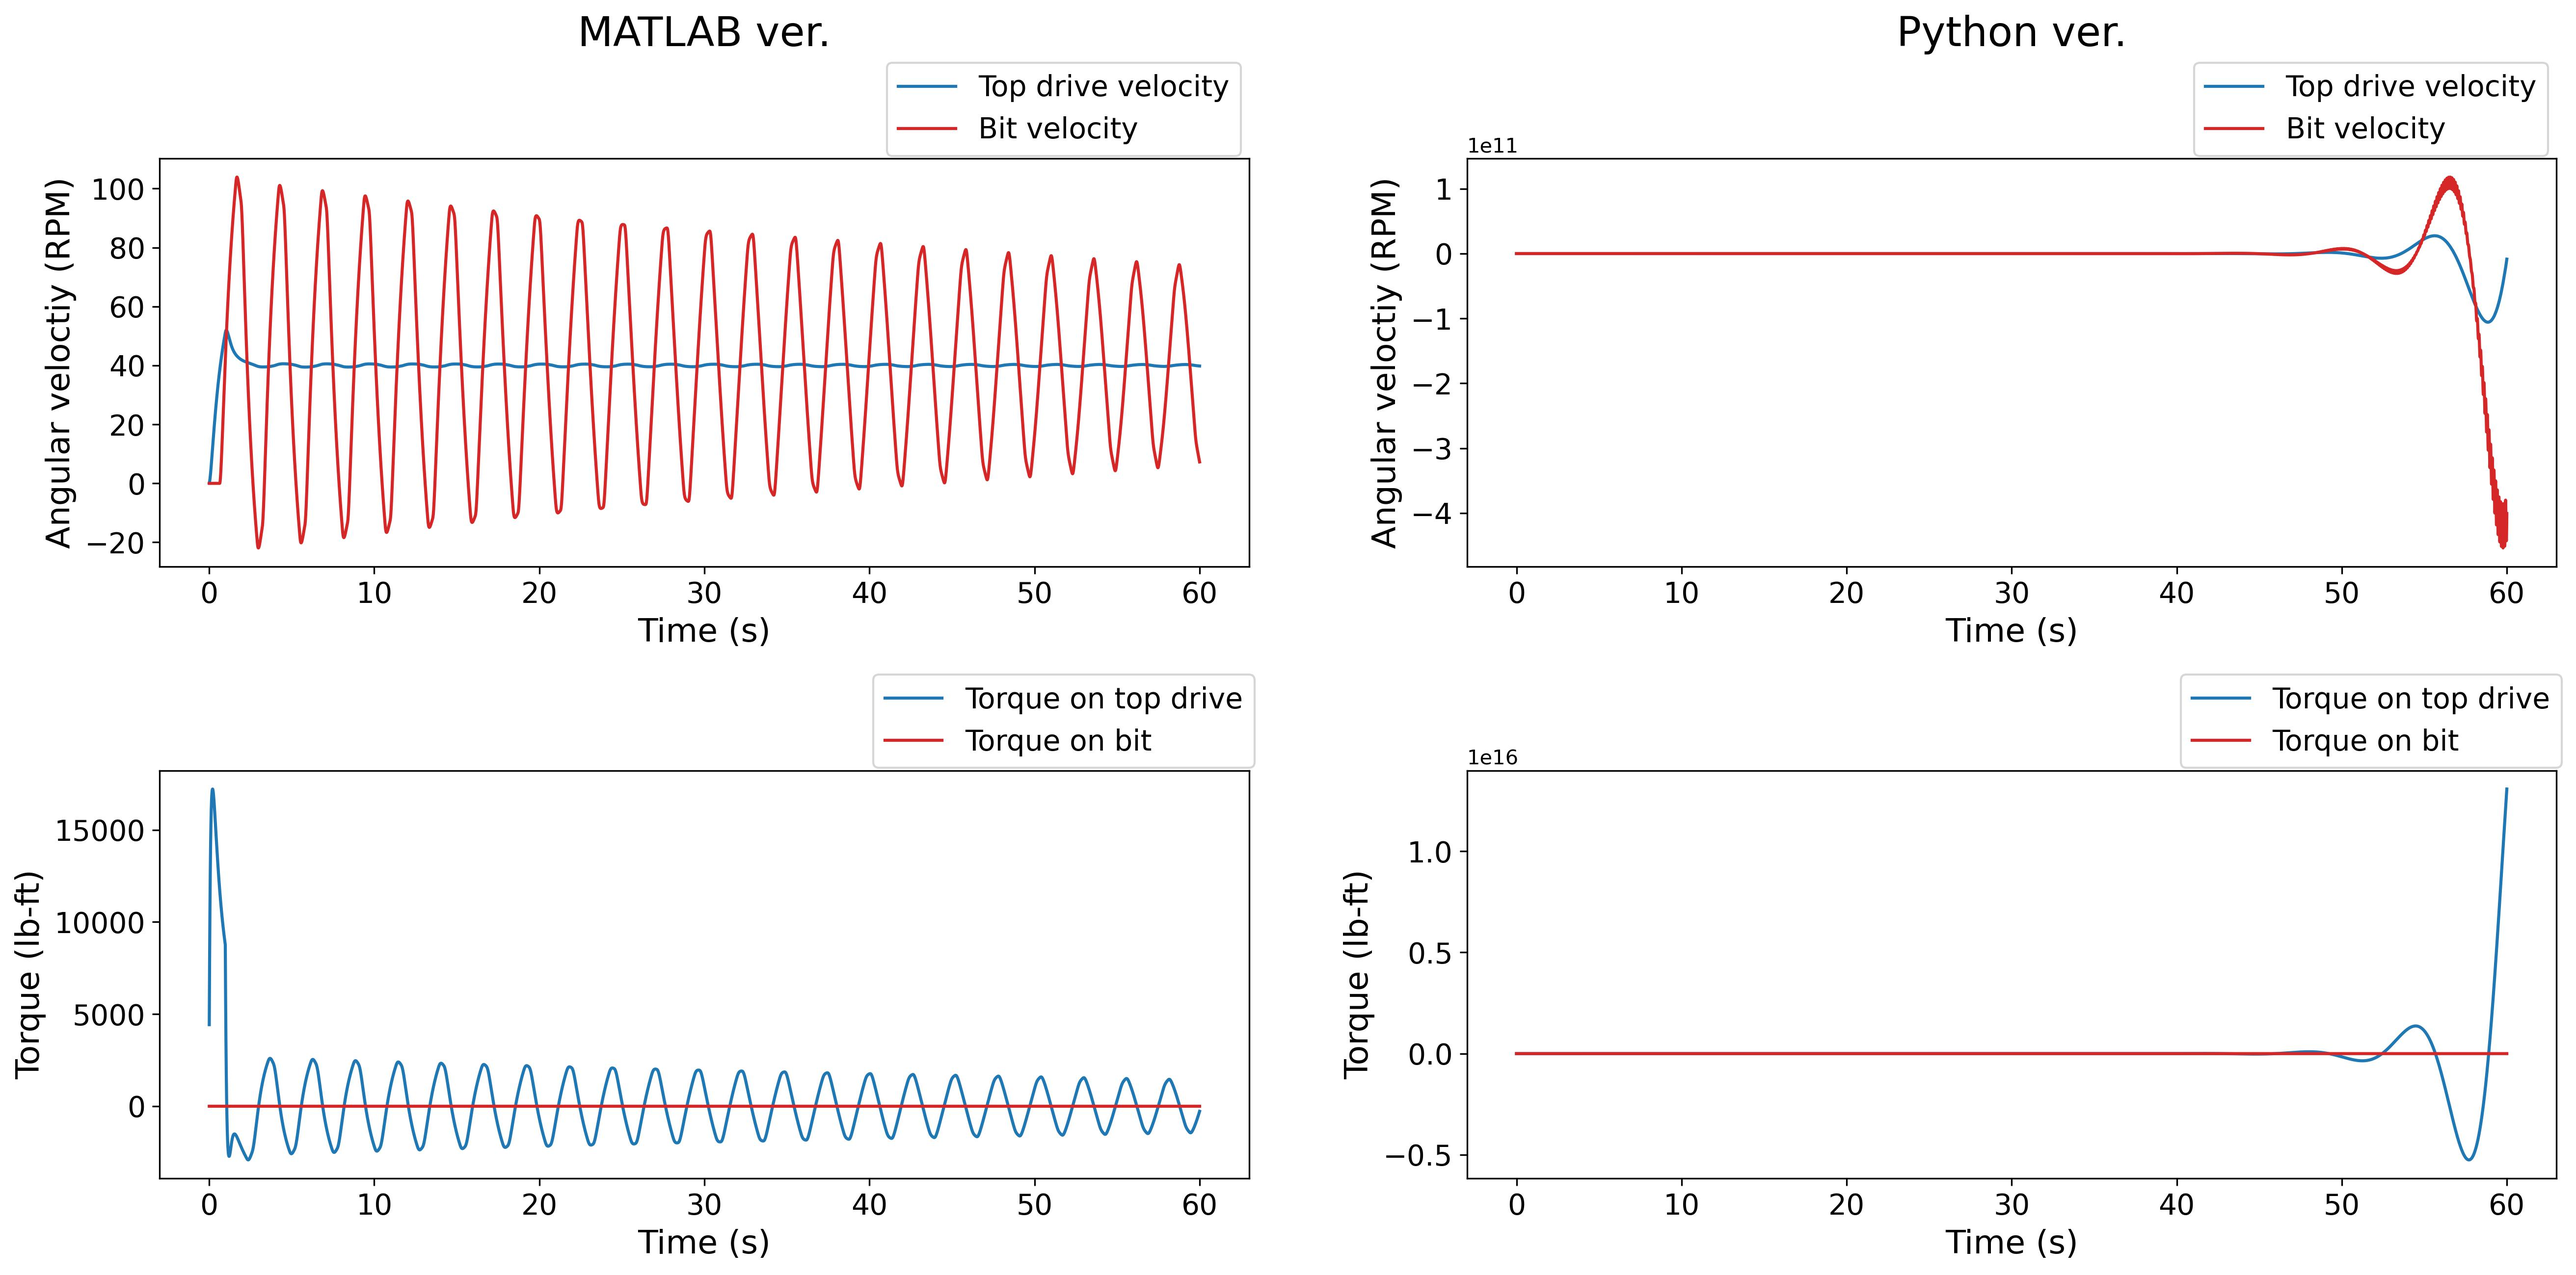
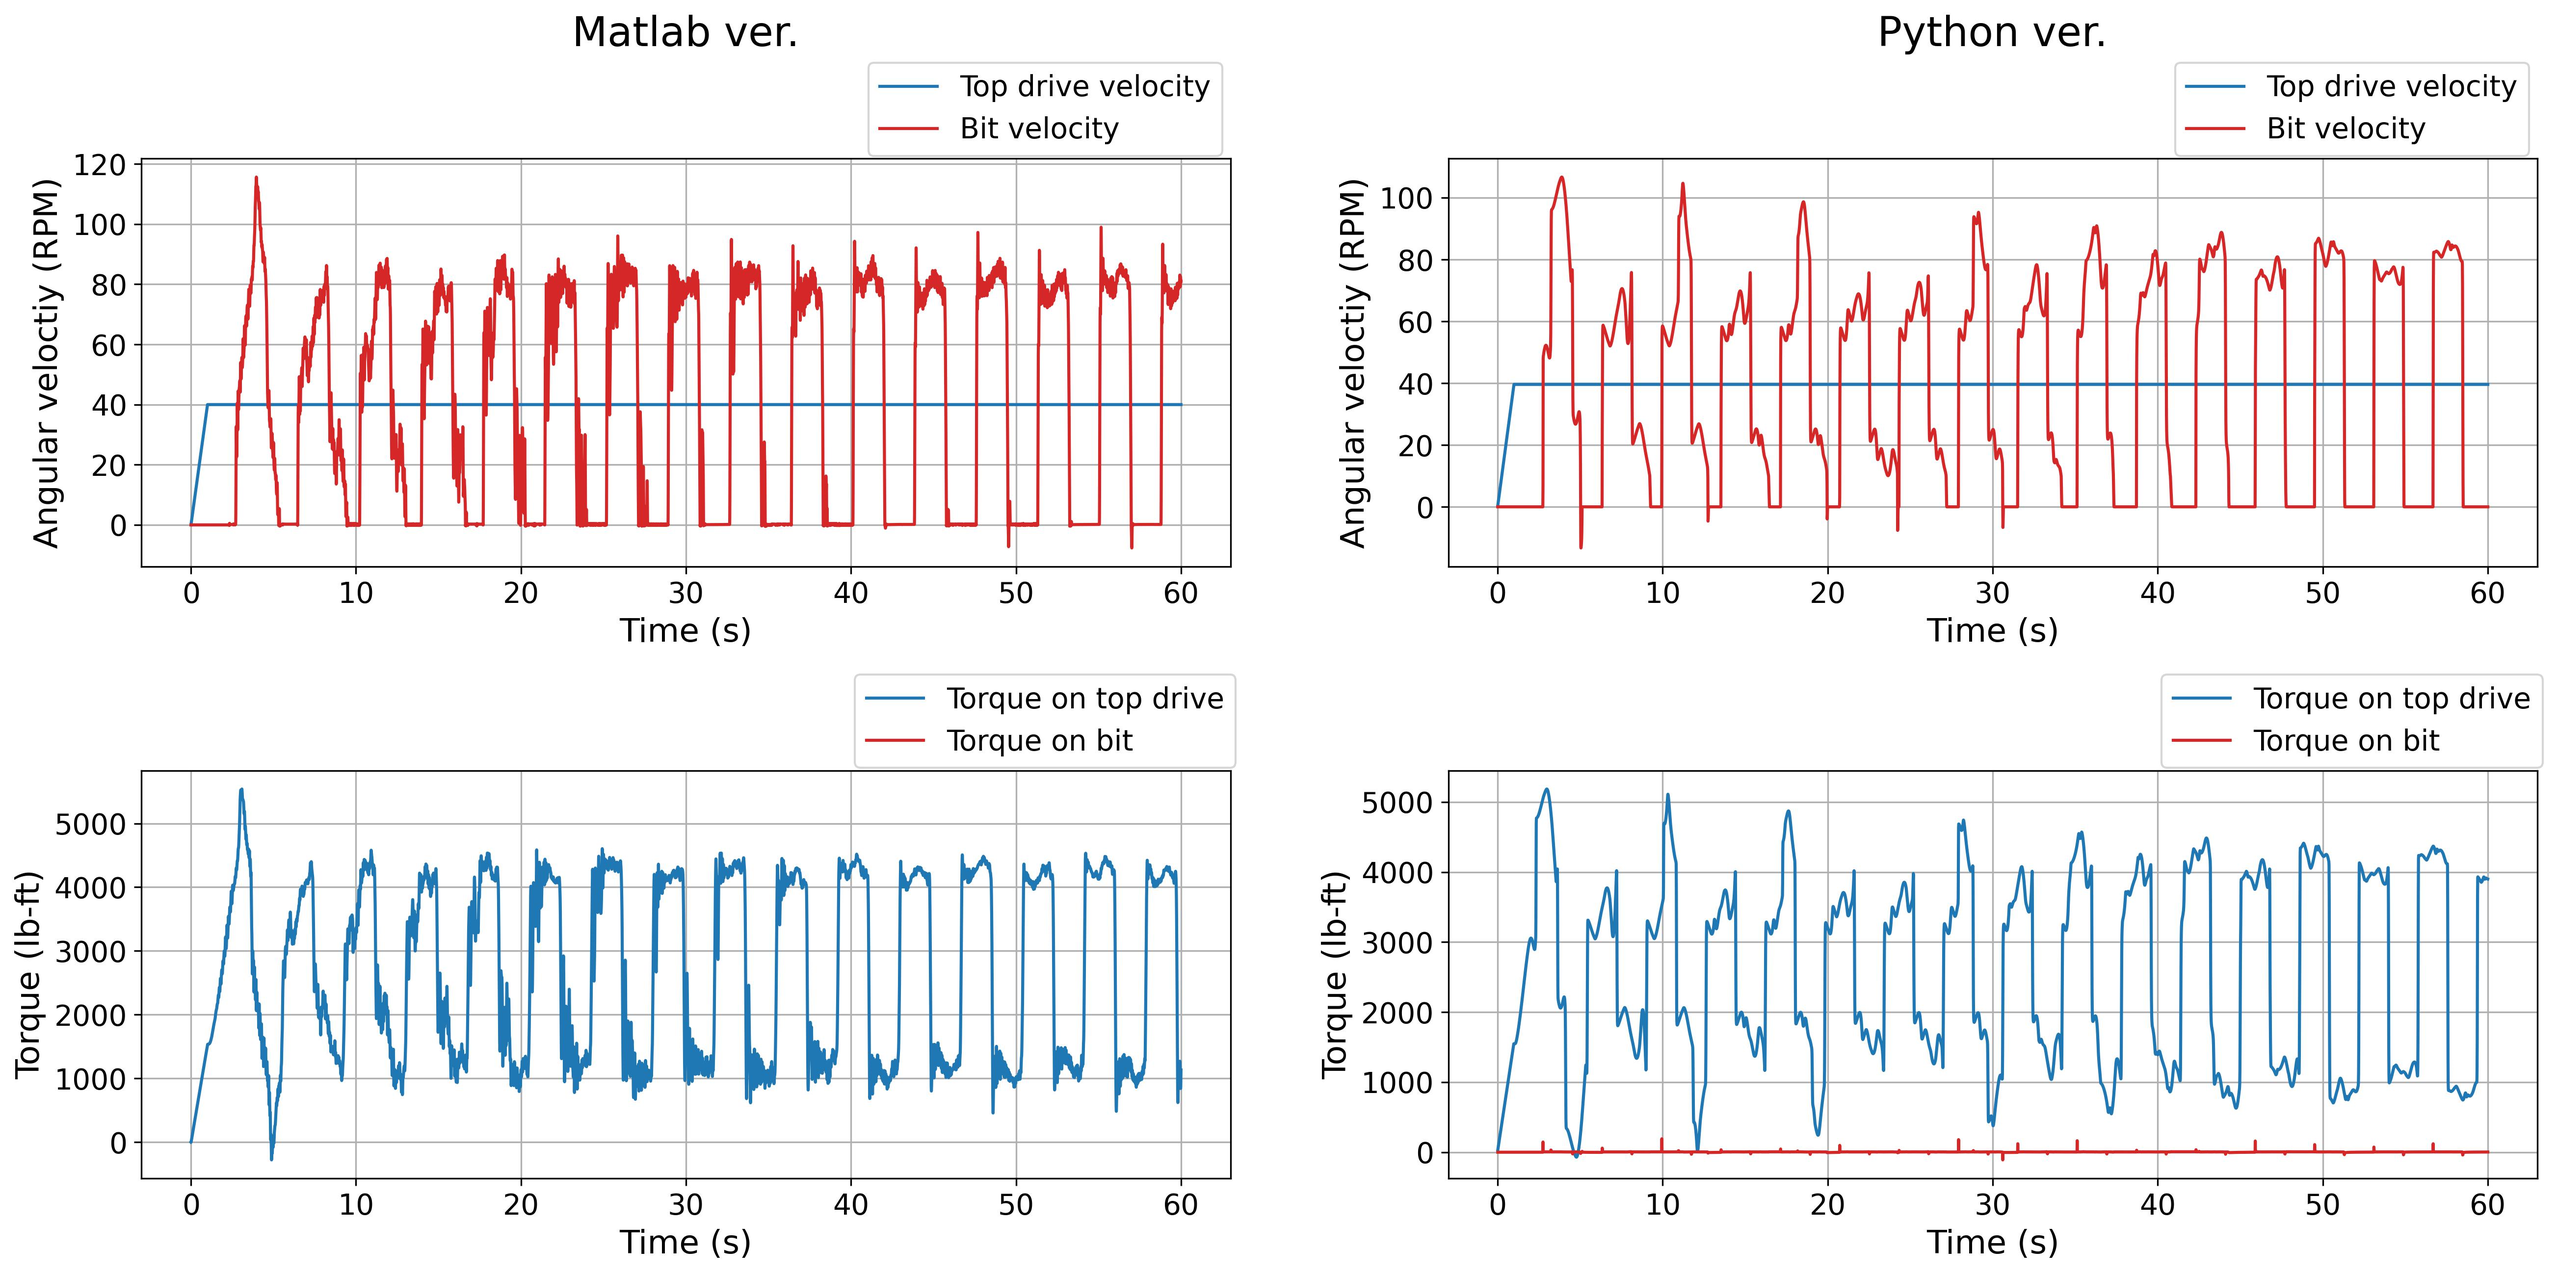
Results added, Test Case added

diff --git a/src/Test Cases.tex b/src/Test Cases.tex
@@ -1,7 +1,9 @@
 \chapter{Test Cases}
 \label{ch:testcases}
-Each Test Case represents vertical and inclined wells with identical parameters. Currently, all Test Cases were run for off-bottom case. For Test Cases 3 and 4, we incorporated BHA to compare the outputs of the two models. Initially, all Test Cases were executed with various static and friction factor values, which are described in the subsequent subsections. However, an additional set of experiments were conducted with identical static and dynamic friction factor values. Since there is no friction in vertical wells, it is primarily related to inclined wells. The problem with the ExxonMobil model's on-bottom case has been resolved. In addition, there is an issue with mud motor that we are addressing. Regarding the Aarsnes-Shor model, since the issue with the Python version has not been resolved, Only Matlab version was used for the final results. The Python version was only executed with Test Case 1 (it will be added once the issue has been resolved). \tablename~\ref{Test_case_summary} summarizes characteristics of each Test Case. 
+The Test Cases presented in this study serve the purpose of comparing and validating different drill string models. All the parameters and results from AS model and ExxonMobil model are provided, therefore; other models can use these Test Cases for validation. All the suggested Test Cases are off-bottom scenarios since AS model only has torsional modeling capability. However, these Test Cases can provide reliable means of cross-checking and comparing the performances of various models. Specifically, Test Cases 1 and 3 encompass scenarios involving vertical wells, with the distinction in the presence BHA components.
+Similarly, Test Cases 2 and 4 are the deviated well scenarios with 60\textdegree inclination angle. The only difference between Test Case 2 and 4 are the exitance of BHA components. In addition, to analyze the effect of frictional factors, Test Cases 2 and 4 are further divided into Test Case 2a, 2b, Test Case 4a, and 4b. This extension of Test Cases was established for deviated wells, as vertical wells experience no friction where the drill string - well bore friction is assumed to be only Coulomb friction from the normal force at drill string. \tablename~\ref{Test_case_summary} summarizes the scenarios for each Test Case. 
 
+Additionally, some of the findings and modifications made on the provided source code of the AS and ExxonMobil models are presented in this chapter. In the AS model, the effect of the PI controller was tested. Also, some of the issues with the Python ver. of AS model are shown. Since this issue has not been resolved yet, the Python ver. was only executed with Test Case 1. On the other hand, The problem with the ExxonMobil model's on-bottom case has been resolved. In addition, there is an issue with mud motor that we are addressing. 
 \begin{table}
     \centering
     \begin{tabular}{|c|c|c|c|c|c|c|}
@@ -21,7 +23,7 @@ Each Test Case represents vertical and inclined wells with identical parameters.
         Test Case 4b & Deviated (60\textdegree{}) & 0.5 & 0.25 & O \\                                                     
         \hline
     \end{tabular}
-    \caption[Summary of characteristics of each Test Case]{Summary of characteristics of each Test Case.}
+    \caption[Scenarios of different Test Cases]{Scenarios of different Test Cases.}
     \label{Test_case_summary}
 \end{table} 
 
@@ -29,7 +31,7 @@ Each Test Case represents vertical and inclined wells with identical parameters.
 \section{Terminology}
 \subsection{No BHA vs BHA}
 
-The Test Cases in this study focus on comparing drilling scenarios with and without the Bottom Hole Assembly (BHA). It introduces specific parameters that differ from the rest of the drill pipe in terms of weight and diameter. However, when the BHA is not present, that particular section of the drill pipe above the bit will have the same weight and diameter as the rest of the drill pipe.
+The Test Cases in this study focus on comparing drilling scenarios with and without the BHA components. It introduces specific parameters that differ from the rest of the drill pipe in terms of weight and diameter. However, when the BHA is not present, that particular section of the drill pipe above the bit will have the same weight and diameter as the rest of the drill pipe.
 
 To maintain simplicity and establish a baseline, we begin the study with a single drill pipe configuration. This configuration represents the most straightforward drilling arrangement, with a solitary pipe running from the surface to the drill bit. In this case, the weight and diameter of the entire drill pipe, including the section above the bit, are uniform.
 
@@ -70,7 +72,7 @@ Bit depth & 5905 $ft$ & 1800 $m$ & - \\
 \end{tabularx}
 \caption[Well survey data for model comparison (vertical well)]{Well survey and drill string data for model comparison (vertical well without BHA components)}\label{table_verticalwell_input}
 \end{testcasetable}
-The test was conducted by assuming the top drive velocity to be increased from 0 $RPM$ to 40 $RPM$ at 1 second and maintained the velocity for rest of the time. The top drive velocity is shown in \figurename~\ref{figure_topdrive_VSP}
+The test was conducted by assuming the top drive velocity to be increased from 0 RPM to 40 RPM at 1 second and maintained the velocity for rest of the time. The top drive velocity is shown in \figurename~\ref{figure_topdrive_VSP}
 
 \begin{figure}[!hbt]
   \centering
@@ -80,7 +82,7 @@ The test was conducted by assuming the top drive velocity to be increased from 0
 
 \section{Test Case 2 - Inclined well, No BHA}
 \subsection{Test case 2a - Same FF values}
-The models were tested with inclined well with simple configuration of drill string. The MD of the well is 4000 $m$ with 60$^{\circ}$ inclination. The drill bit is off-bottom where located at 2500 $m$ depth. The Schematic view of wellbore and drill string are depicted in \figurename~\ref{figure_wellconfig_inclined}. Also, the top drive velocity is increased to 40 $RPM$ at 1 second which is same with Test Case 1 (\figurename\ref{figure_topdrive_VSP}). For Test Case 2, the viscous damping is neglected for the simplicity of the test. However, Coulomb friction is considered to investigate the stick-slip occurrence during drilling. The parameters for the test are summarized in \tablename~\ref{table_Inclinedwell_2a_input}.
+The models were tested with inclined well with simple configuration of drill string. The MD of the well is 4000 m with 60$^{\circ}$ inclination. The drill bit is off-bottom where located at 2500 m depth. The Schematic view of wellbore and drill string are depicted in \figurename~\ref{figure_wellconfig_inclined}. Also, the top drive velocity is increased to 40 RPM at 1 second which is same with Test Case 1 (\figurename\ref{figure_topdrive_VSP}). For Test Case 2, the viscous damping is neglected for the simplicity of the test. However, Coulomb friction is considered to investigate the stick-slip occurrence during drilling. The parameters for the test are summarized in \tablename~\ref{table_Inclinedwell_2a_input}.
 
 \begin{figure}[!hbt]
   \centering

diff --git a/src/Results and Comparisons.tex b/src/Results and Comparisons.tex
@@ -1,8 +1,6 @@
 \chapter{Results and Comparisons} 
 \label{ch:results} 
 This Chapter contains results and its comparisons from both A-S and ExxonMobil models for all the test cases. More details for the test cases can be find in \chaptername~\ref{ch:testcases}. Summary of the differences between the two models are shown in \tablename~\ref{table_model_difference}.
-
-
 \begin{table}[!hbt]
 \centering
 \begin{tabular}{|c|p{1.8in}|p{1.8in}|c|}
@@ -172,3 +170,6 @@ The comparison between A-S, and ExxonMobil model are illustrated in \figurename~
     \caption[Input parameters of Aarsnes-Shor model (Python ver.)]{Input parameters of Aarsnes-Shor model. Well trajectory, top drive set velocity, and bit constant are the additional parameters not included in this table.}
     \label{Exxon_results_summary}
 \end{table}
+
+\section{Conclusion}
+The availability of these well-structured Test Cases allows for rigorous comparison and verification of drill string models, enabling researchers and engineers to assess their accuracy and performance in various wellbore scenarios. The data and findings obtained from these Test Cases offer valuable insights and constitute a substantial contribution to the field of drill string modeling and simulation. As a result, this study serves as a valuable reference for further research and development in the domain of drilling engineering and related disciplines. 
